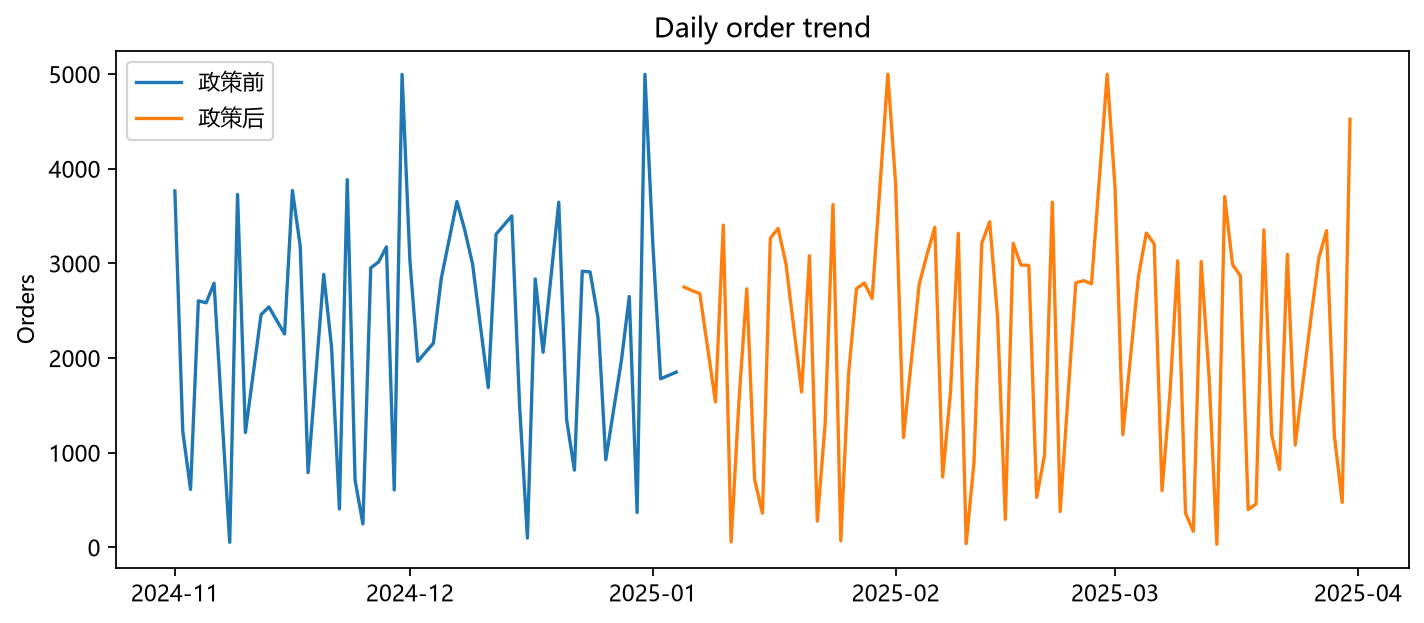
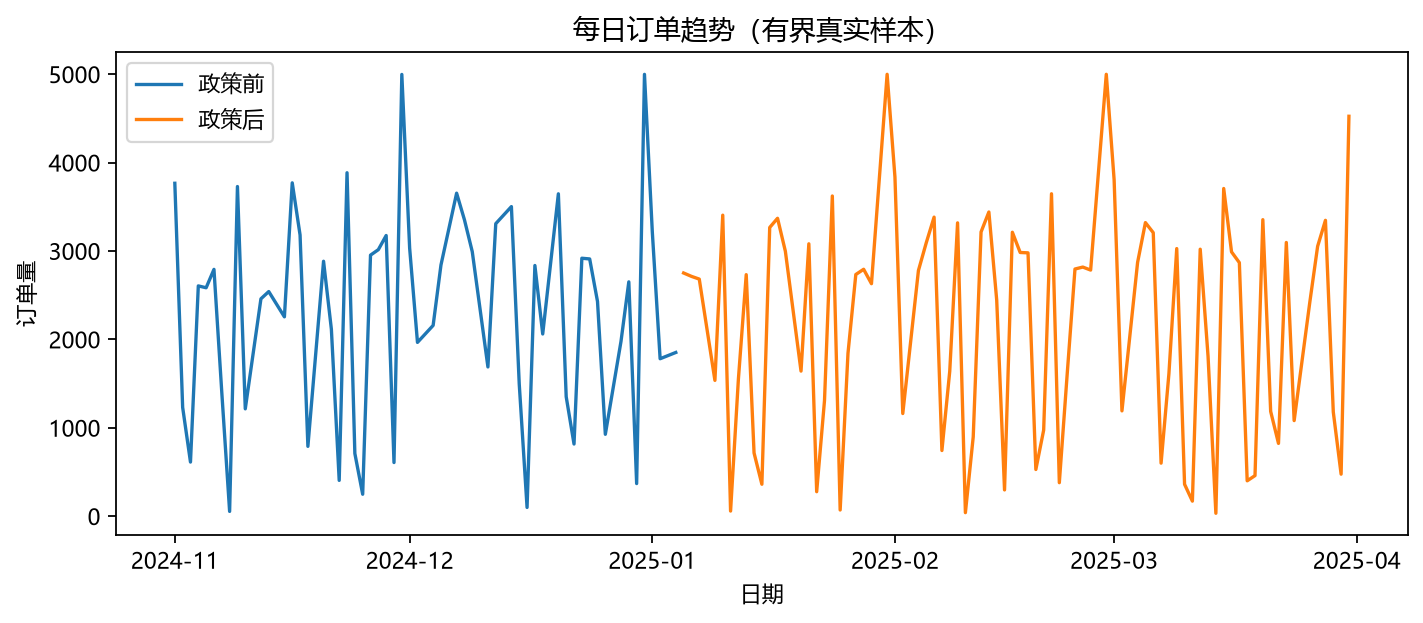
Refresh daily trend chart with Chinese labels

diff --git a/src/analysis/report_analysis_modules.py b/src/analysis/report_analysis_modules.py
@@ -43,8 +43,9 @@ def demand_shift(data: pd.DataFrame) -> None:
     fig, ax = plt.subplots(figsize=(9, 4))
     for label, frame in daily.groupby("post_policy"):
         ax.plot(frame["trip_date"], frame["order_count"], label="政策后" if label else "政策前")
-    ax.set_title("Daily order trend")
-    ax.set_ylabel("Orders")
+    ax.set_title("每日订单趋势（有界真实样本）")
+    ax.set_xlabel("日期")
+    ax.set_ylabel("订单量")
     ax.legend()
     save_plot(fig, "daily_order_trend.png")
     fig, ax = plt.subplots(figsize=(7, 4))